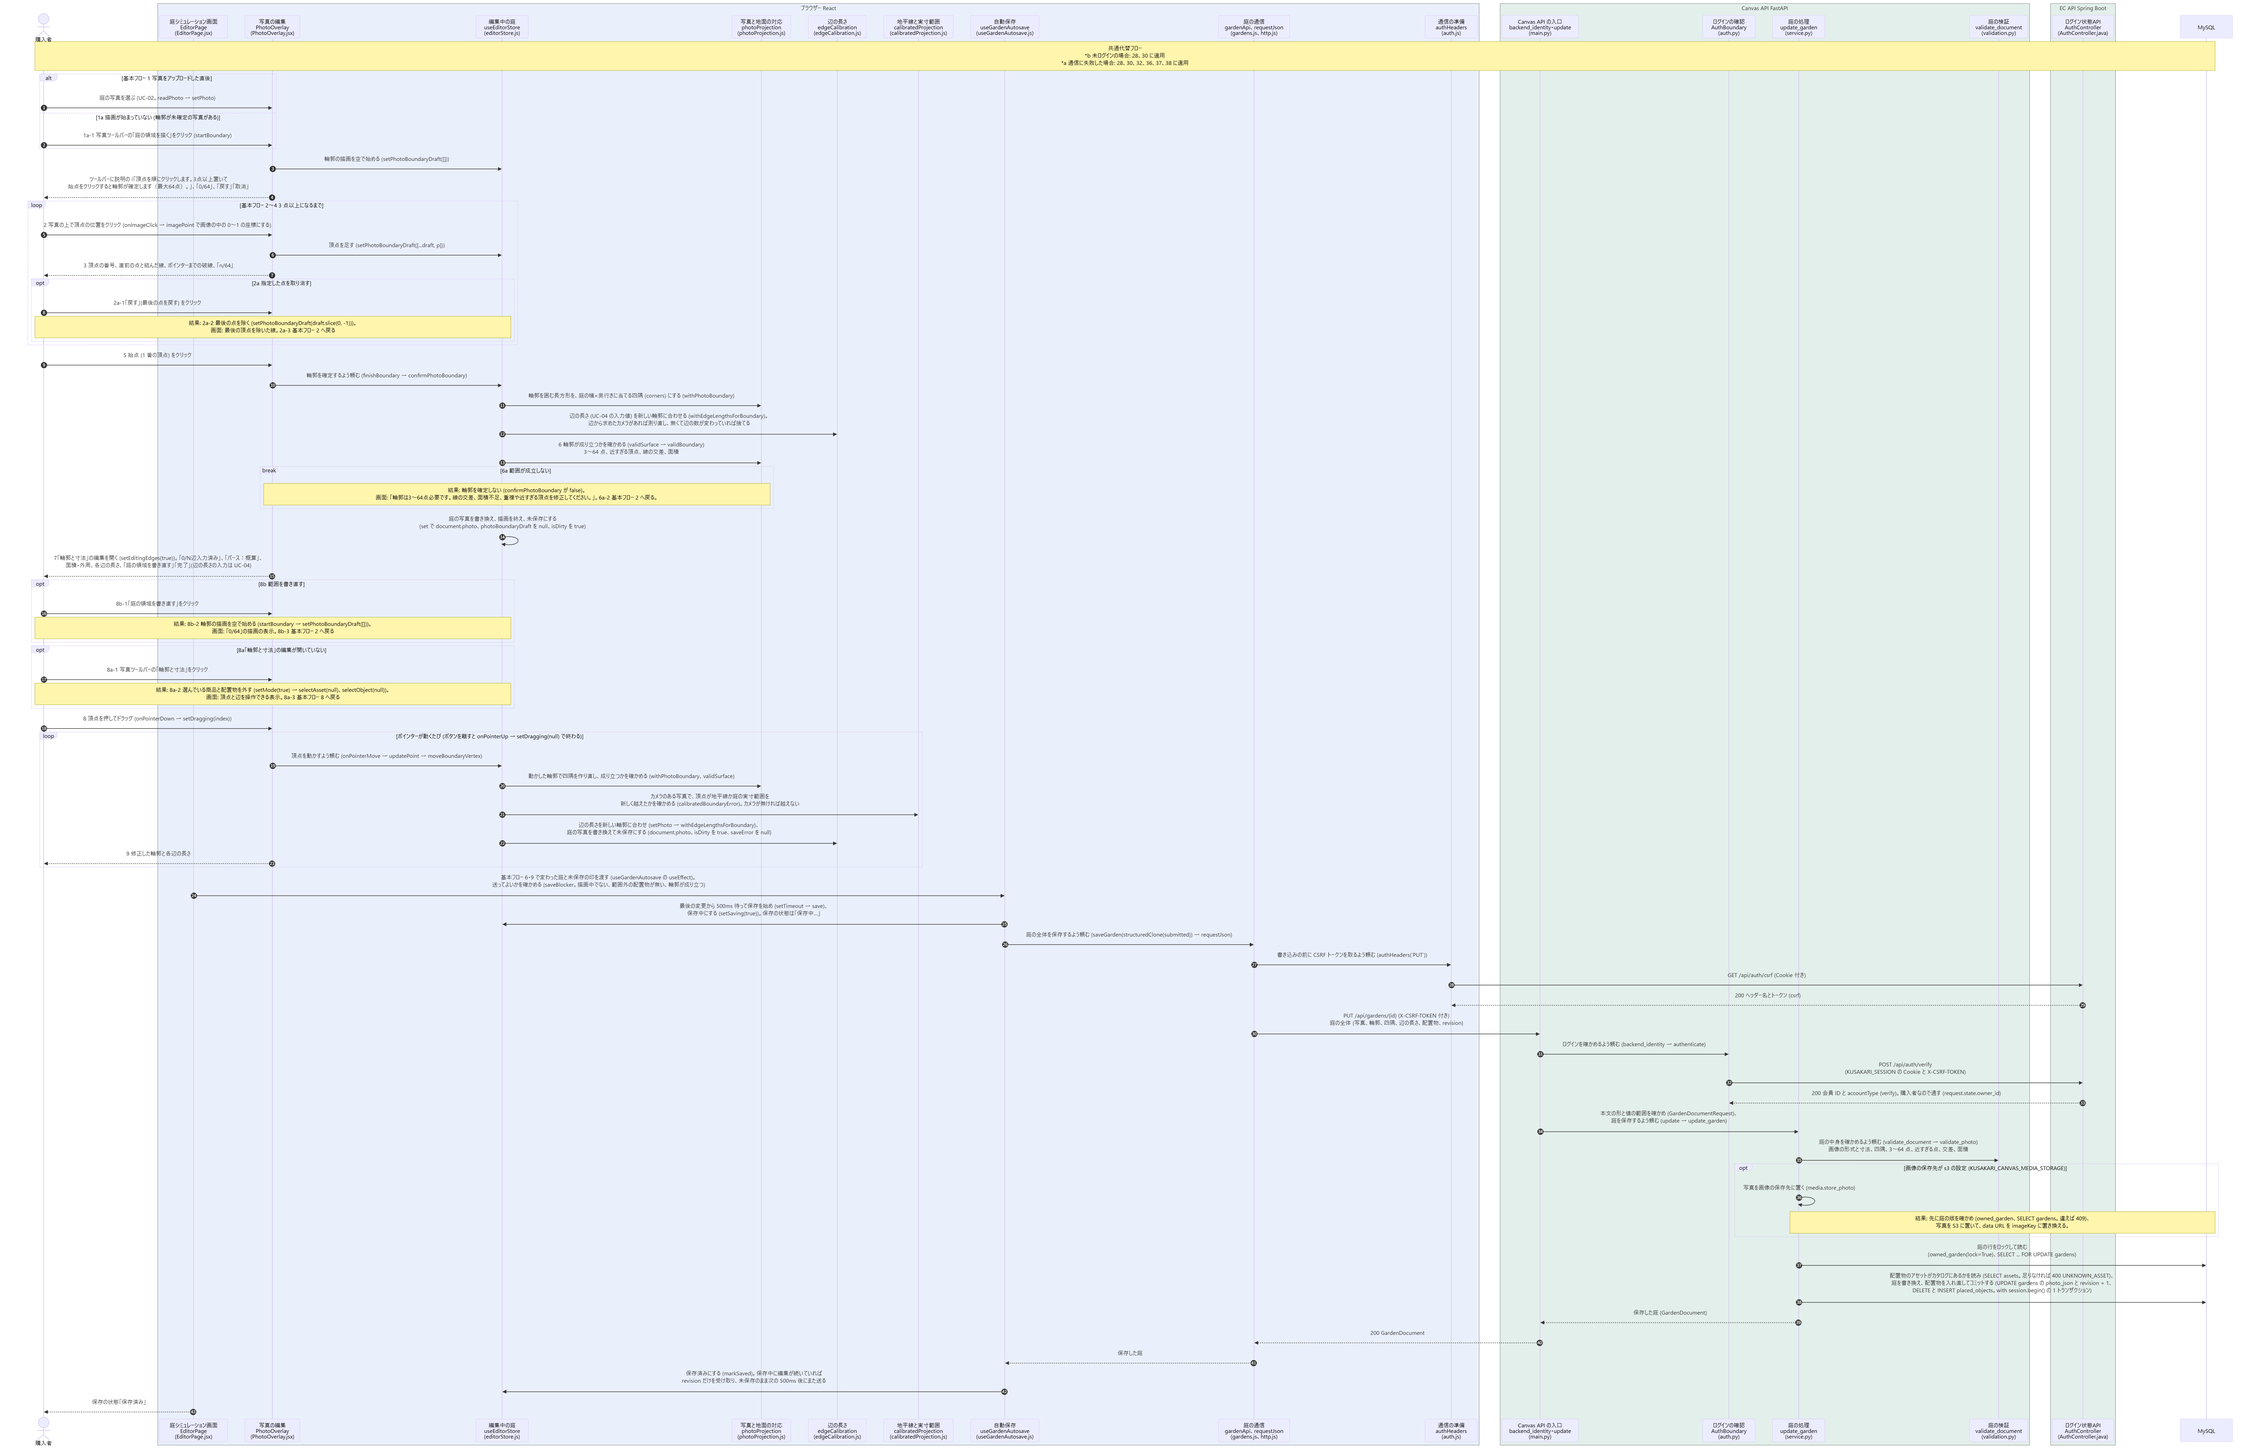
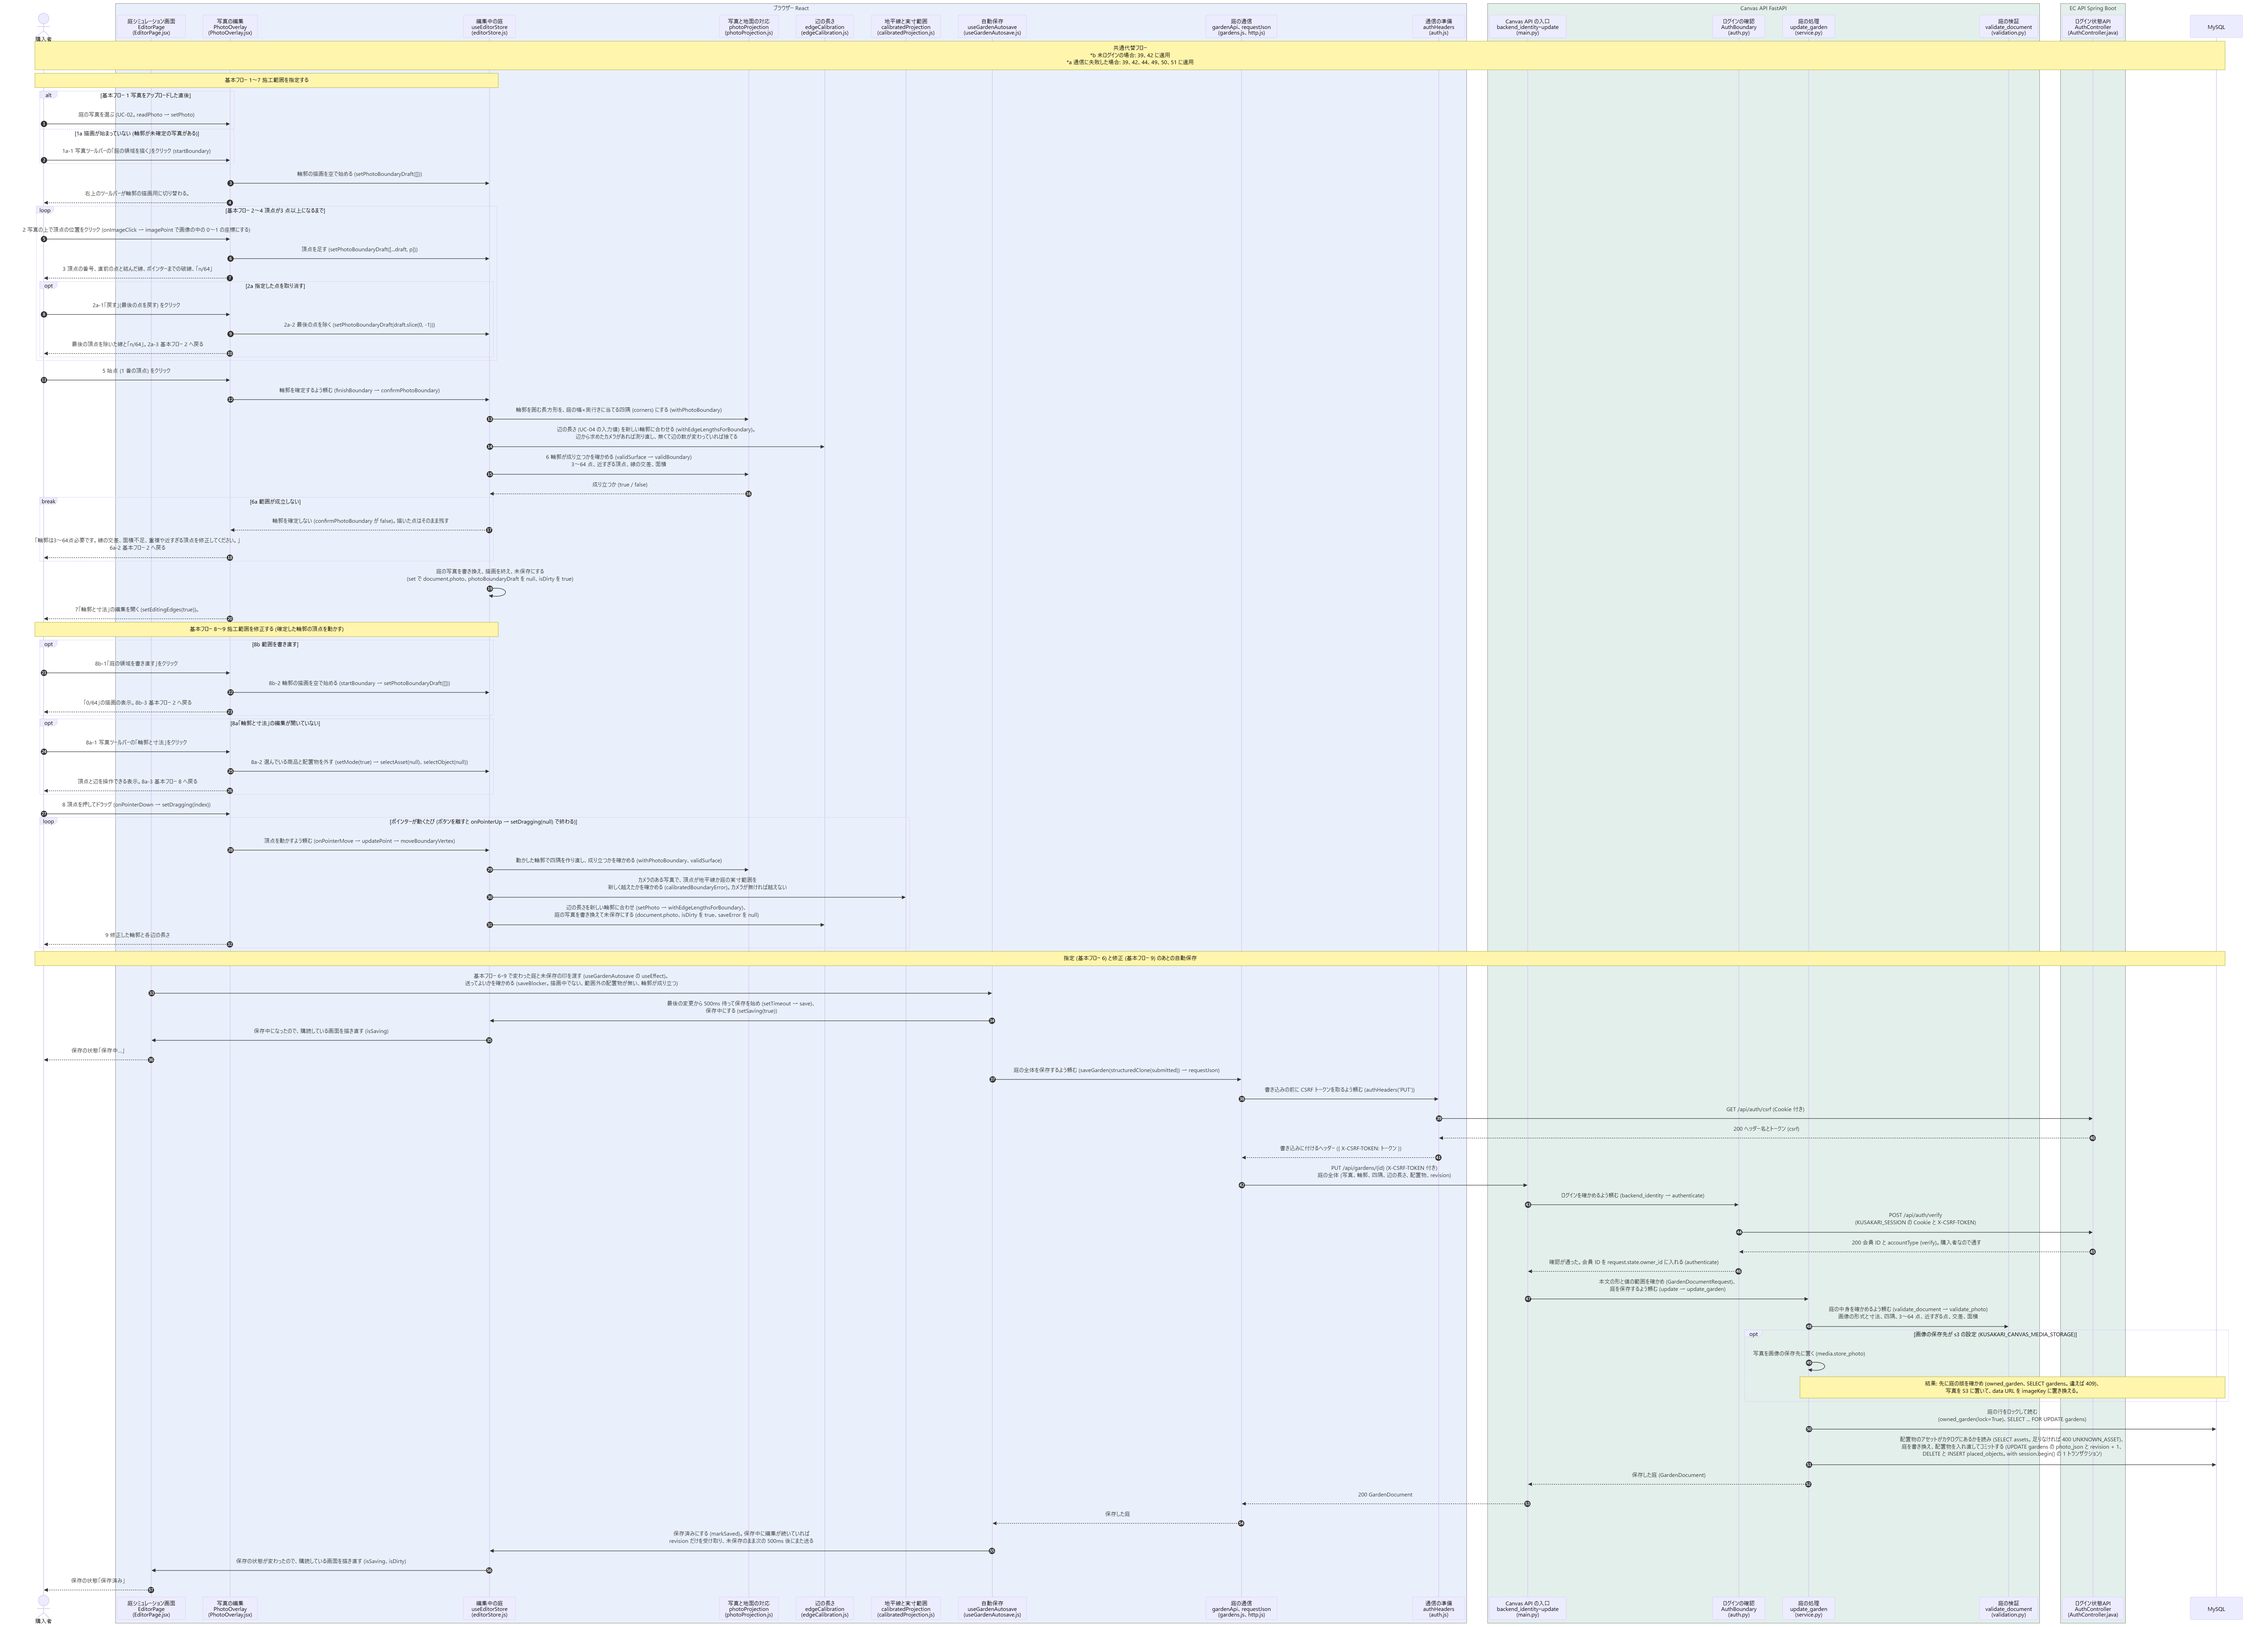
「施工範囲を指定・修正する」シーケンス図を修正

diff --git a/シーケンス図/kusakari-canvas/UC-03_施工範囲を指定・修正する.md b/シーケンス図/kusakari-canvas/UC-03_施工範囲を指定・修正する.md
@@ -26,23 +26,25 @@ sequenceDiagram
     end
     participant Db as MySQL
 
-    Note over User,Db: 共通代替フロー<br/>*b 未ログインの場合: 28、30 に適用<br/>*a 通信に失敗した場合: 28、30、32、36、37、38 に適用
+    Note over User,Db: 共通代替フロー<br/>*b 未ログインの場合: 39、42 に適用<br/>*a 通信に失敗した場合: 39、42、44、49、50、51 に適用
 
+    Note over User,Store: 基本フロー 1〜7 施工範囲を指定する
     alt 基本フロー 1 写真をアップロードした直後
         User->>Overlay: 庭の写真を選ぶ (UC-02。readPhoto → setPhoto)
     else 1a 描画が始まっていない (輪郭が未確定の写真がある)
         User->>Overlay: 1a-1 写真ツールバーの「庭の領域を描く」をクリック (startBoundary)
     end
     Overlay->>Store: 輪郭の描画を空で始める (setPhotoBoundaryDraft([]))
-    Overlay-->>User: ツールバーに説明の i「頂点を順にクリックします。3点以上置いて<br/>始点をクリックすると輪郭が確定します（最大64点）。」、「0/64」、「戻す」「取消」
+    Overlay-->>User: 右上のツールバーが輪郭の描画用に切り替わる。
 
-    loop 基本フロー 2〜4 3 点以上になるまで
+    loop 基本フロー 2〜4 頂点が3 点以上になるまで
         User->>Overlay: 2 写真の上で頂点の位置をクリック (onImageClick → imagePoint で画像の中の 0〜1 の座標にする)
         Overlay->>Store: 頂点を足す (setPhotoBoundaryDraft([...draft, p]))
         Overlay-->>User: 3 頂点の番号、直前の点と結んだ線、ポインターまでの破線、「n/64」
         opt 2a 指定した点を取り消す
             User->>Overlay: 2a-1「戻す」(最後の点を戻す) をクリック
-            Note over User,Store: 結果: 2a-2 最後の点を除く (setPhotoBoundaryDraft(draft.slice(0, -1)))。<br/>画面: 最後の頂点を除いた線。2a-3 基本フロー 2 へ戻る
+            Overlay->>Store: 2a-2 最後の点を除く (setPhotoBoundaryDraft(draft.slice(0, -1)))
+            Overlay-->>User: 最後の頂点を除いた線と「n/64」。2a-3 基本フロー 2 へ戻る
         end
     end
 
@@ -51,19 +53,24 @@ sequenceDiagram
     Store->>Proj: 輪郭を囲む長方形を、庭の幅×奥行きに当てる四隅 (corners) にする (withPhotoBoundary)
     Store->>Edge: 辺の長さ (UC-04 の入力値) を新しい輪郭に合わせる (withEdgeLengthsForBoundary)。<br/>辺から求めたカメラがあれば測り直し、無くて辺の数が変わっていれば捨てる
     Store->>Proj: 6 輪郭が成り立つかを確かめる (validSurface → validBoundary)<br/>3〜64 点、近すぎる頂点、線の交差、面積
+    Proj-->>Store: 成り立つか (true / false)
     break 6a 範囲が成立しない
-        Note over Overlay,Proj: 結果: 輪郭を確定しない (confirmPhotoBoundary が false)。<br/>画面: 「輪郭は3〜64点必要です。線の交差、面積不足、重複や近すぎる頂点を修正してください。」。6a-2 基本フロー 2 へ戻る。
+        Store-->>Overlay: 輪郭を確定しない (confirmPhotoBoundary が false)。描いた点はそのまま残す
+        Overlay-->>User: 「輪郭は3〜64点必要です。線の交差、面積不足、重複や近すぎる頂点を修正してください。」<br/>6a-2 基本フロー 2 へ戻る
     end
     Store->>Store: 庭の写真を書き換え、描画を終え、未保存にする<br/>(set で document.photo、photoBoundaryDraft を null、isDirty を true)
-    Overlay-->>User: 7「輪郭と寸法」の編集を開く (setEditingEdges(true))。「0/N辺入力済み」、「パース：概算」、<br/>面積・外周、各辺の長さ、「庭の領域を書き直す」「完了」(辺の長さの入力は UC-04)
+    Overlay-->>User: 7「輪郭と寸法」の編集を開く (setEditingEdges(true))。
 
+    Note over User,Store: 基本フロー 8〜9 施工範囲を修正する (確定した輪郭の頂点を動かす)
     opt 8b 範囲を書き直す
         User->>Overlay: 8b-1「庭の領域を書き直す」をクリック
-        Note over User,Store: 結果: 8b-2 輪郭の描画を空で始める (startBoundary → setPhotoBoundaryDraft([]))。<br/>画面: 「0/64」の描画の表示。8b-3 基本フロー 2 へ戻る
+        Overlay->>Store: 8b-2 輪郭の描画を空で始める (startBoundary → setPhotoBoundaryDraft([]))
+        Overlay-->>User: 「0/64」の描画の表示。8b-3 基本フロー 2 へ戻る
     end
     opt 8a「輪郭と寸法」の編集が開いていない
         User->>Overlay: 8a-1 写真ツールバーの「輪郭と寸法」をクリック
-        Note over User,Store: 結果: 8a-2 選んでいる商品と配置物を外す (setMode(true) → selectAsset(null)、selectObject(null))。<br/>画面: 頂点と辺を操作できる表示。8a-3 基本フロー 8 へ戻る
+        Overlay->>Store: 8a-2 選んでいる商品と配置物を外す (setMode(true) → selectAsset(null)、selectObject(null))
+        Overlay-->>User: 頂点と辺を操作できる表示。8a-3 基本フロー 8 へ戻る
     end
     User->>Overlay: 8 頂点を押してドラッグ (onPointerDown → setDragging(index))
     loop ポインターが動くたび (ボタンを離すと onPointerUp → setDragging(null) で終わる)
@@ -74,16 +81,21 @@ sequenceDiagram
         Overlay-->>User: 9 修正した輪郭と各辺の長さ
     end
 
+    Note over User,Db: 指定 (基本フロー 6) と修正 (基本フロー 9) のあとの自動保存
     Editor->>Auto: 基本フロー 6・9 で変わった庭と未保存の印を渡す (useGardenAutosave の useEffect)。<br/>送ってよいかを確かめる (saveBlocker。描画中でない、範囲外の配置物が無い、輪郭が成り立つ)
-    Auto->>Store: 最後の変更から 500ms 待って保存を始め (setTimeout → save)、<br/>保存中にする (setSaving(true))。保存の状態は「保存中…」
+    Auto->>Store: 最後の変更から 500ms 待って保存を始め (setTimeout → save)、<br/>保存中にする (setSaving(true))
+    Store->>Editor: 保存中になったので、購読している画面を描き直す (isSaving)
+    Editor-->>User: 保存の状態「保存中…」
     Auto->>Http: 庭の全体を保存するよう頼む (saveGarden(structuredClone(submitted)) → requestJson)
     Http->>AuthJs: 書き込みの前に CSRF トークンを取るよう頼む (authHeaders('PUT'))
     AuthJs->>EcAuth: GET /api/auth/csrf (Cookie 付き)
     EcAuth-->>AuthJs: 200 ヘッダー名とトークン (csrf)
+    AuthJs-->>Http: 書き込みに付けるヘッダー ({ X-CSRF-TOKEN: トークン })
     Http->>Main: PUT /api/gardens/{id} (X-CSRF-TOKEN 付き)<br/>庭の全体 (写真、輪郭、四隅、辺の長さ、配置物、revision)
     Main->>AuthPy: ログインを確かめるよう頼む (backend_identity → authenticate)
     AuthPy->>EcAuth: POST /api/auth/verify<br/>(KUSAKARI_SESSION の Cookie と X-CSRF-TOKEN)
-    EcAuth-->>AuthPy: 200 会員 ID と accountType (verify)。購入者なので通す (request.state.owner_id)
+    EcAuth-->>AuthPy: 200 会員 ID と accountType (verify)。購入者なので通す
+    AuthPy-->>Main: 確認が通った。会員 ID を request.state.owner_id に入れる (authenticate)
     Main->>Svc: 本文の形と値の範囲を確かめ (GardenDocumentRequest)、<br/>庭を保存するよう頼む (update → update_garden)
     Svc->>Valid: 庭の中身を確かめるよう頼む (validate_document → validate_photo)<br/>画像の形式と寸法、四隅、3〜64 点、近すぎる点、交差、面積
     opt 画像の保存先が s3 の設定 (KUSAKARI_CANVAS_MEDIA_STORAGE)
@@ -96,6 +108,7 @@ sequenceDiagram
     Main-->>Http: 200 GardenDocument
     Http-->>Auto: 保存した庭
     Auto->>Store: 保存済みにする (markSaved)。保存中に編集が続いていれば<br/>revision だけを受け取り、未保存のまま次の 500ms 後にまた送る
+    Store->>Editor: 保存の状態が変わったので、購読している画面を描き直す (isSaving、isDirty)
     Editor-->>User: 保存の状態「保存済み」
 ```
 
